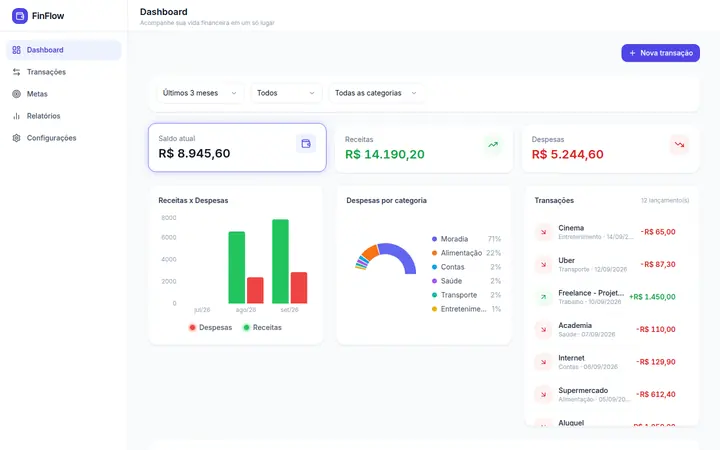
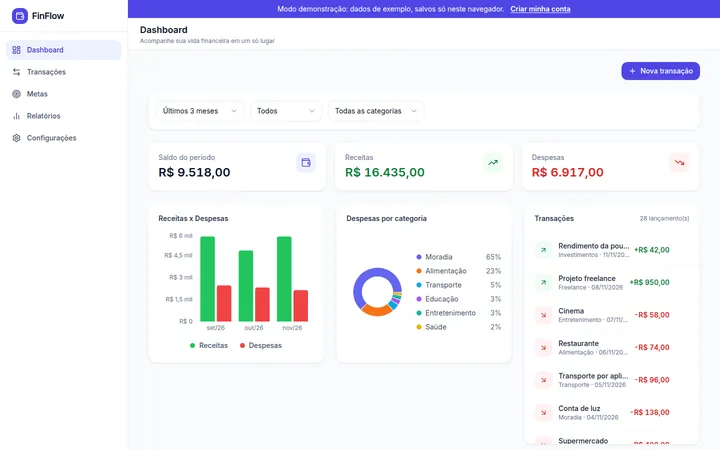
Retake the FinFlow light dashboard screenshot
The old shot showed the previous income green and the "Saldo atual"
label. Recapture it from the live app in demo mode, light theme,
filtered to the last 3 months, at 1440x900 with the 720px version, and
say "saldo do período" in the caption as the app now does.

Assisted-by: Claude:Opus 5.5 [Claude-Code]

diff --git a/index.html b/index.html
@@ -3043,7 +3043,7 @@ const GALLERIES = {
     images: [
       ['finflow/dashboard-escuro', 'Dashboard do FinFlow no tema escuro', 'Dashboard no tema escuro: receitas x despesas, despesas por categoria, últimas transações e resumo do período.'],
       ['finflow/demonstracao', 'Dashboard do FinFlow no modo demonstração', 'Modo demonstração: dá para conhecer o app sem criar conta, com dados de exemplo salvos só no navegador.'],
-      ['finflow/dashboard-claro', 'Dashboard do FinFlow no tema claro', 'Dashboard no tema claro, com saldo atual, receitas e despesas e filtros por período, tipo e categoria.'],
+      ['finflow/dashboard-claro', 'Dashboard do FinFlow no tema claro', 'Dashboard no tema claro, com saldo do período, receitas e despesas e filtros por período, tipo e categoria.'],
       ['finflow/metas', 'Tela de metas financeiras do FinFlow', 'Metas financeiras: progresso de cada objetivo, quanto falta e prazo, com atalho para adicionar dinheiro.'],
       ['finflow/relatorios', 'Tela de relatórios do FinFlow', 'Relatórios: médias mensais, maior despesa, taxa de economia e evolução mensal de receitas x despesas.'],
       ['finflow/transacoes', 'Lista de transações do FinFlow', 'Transações: busca por descrição e filtros por tipo e categoria.'],
